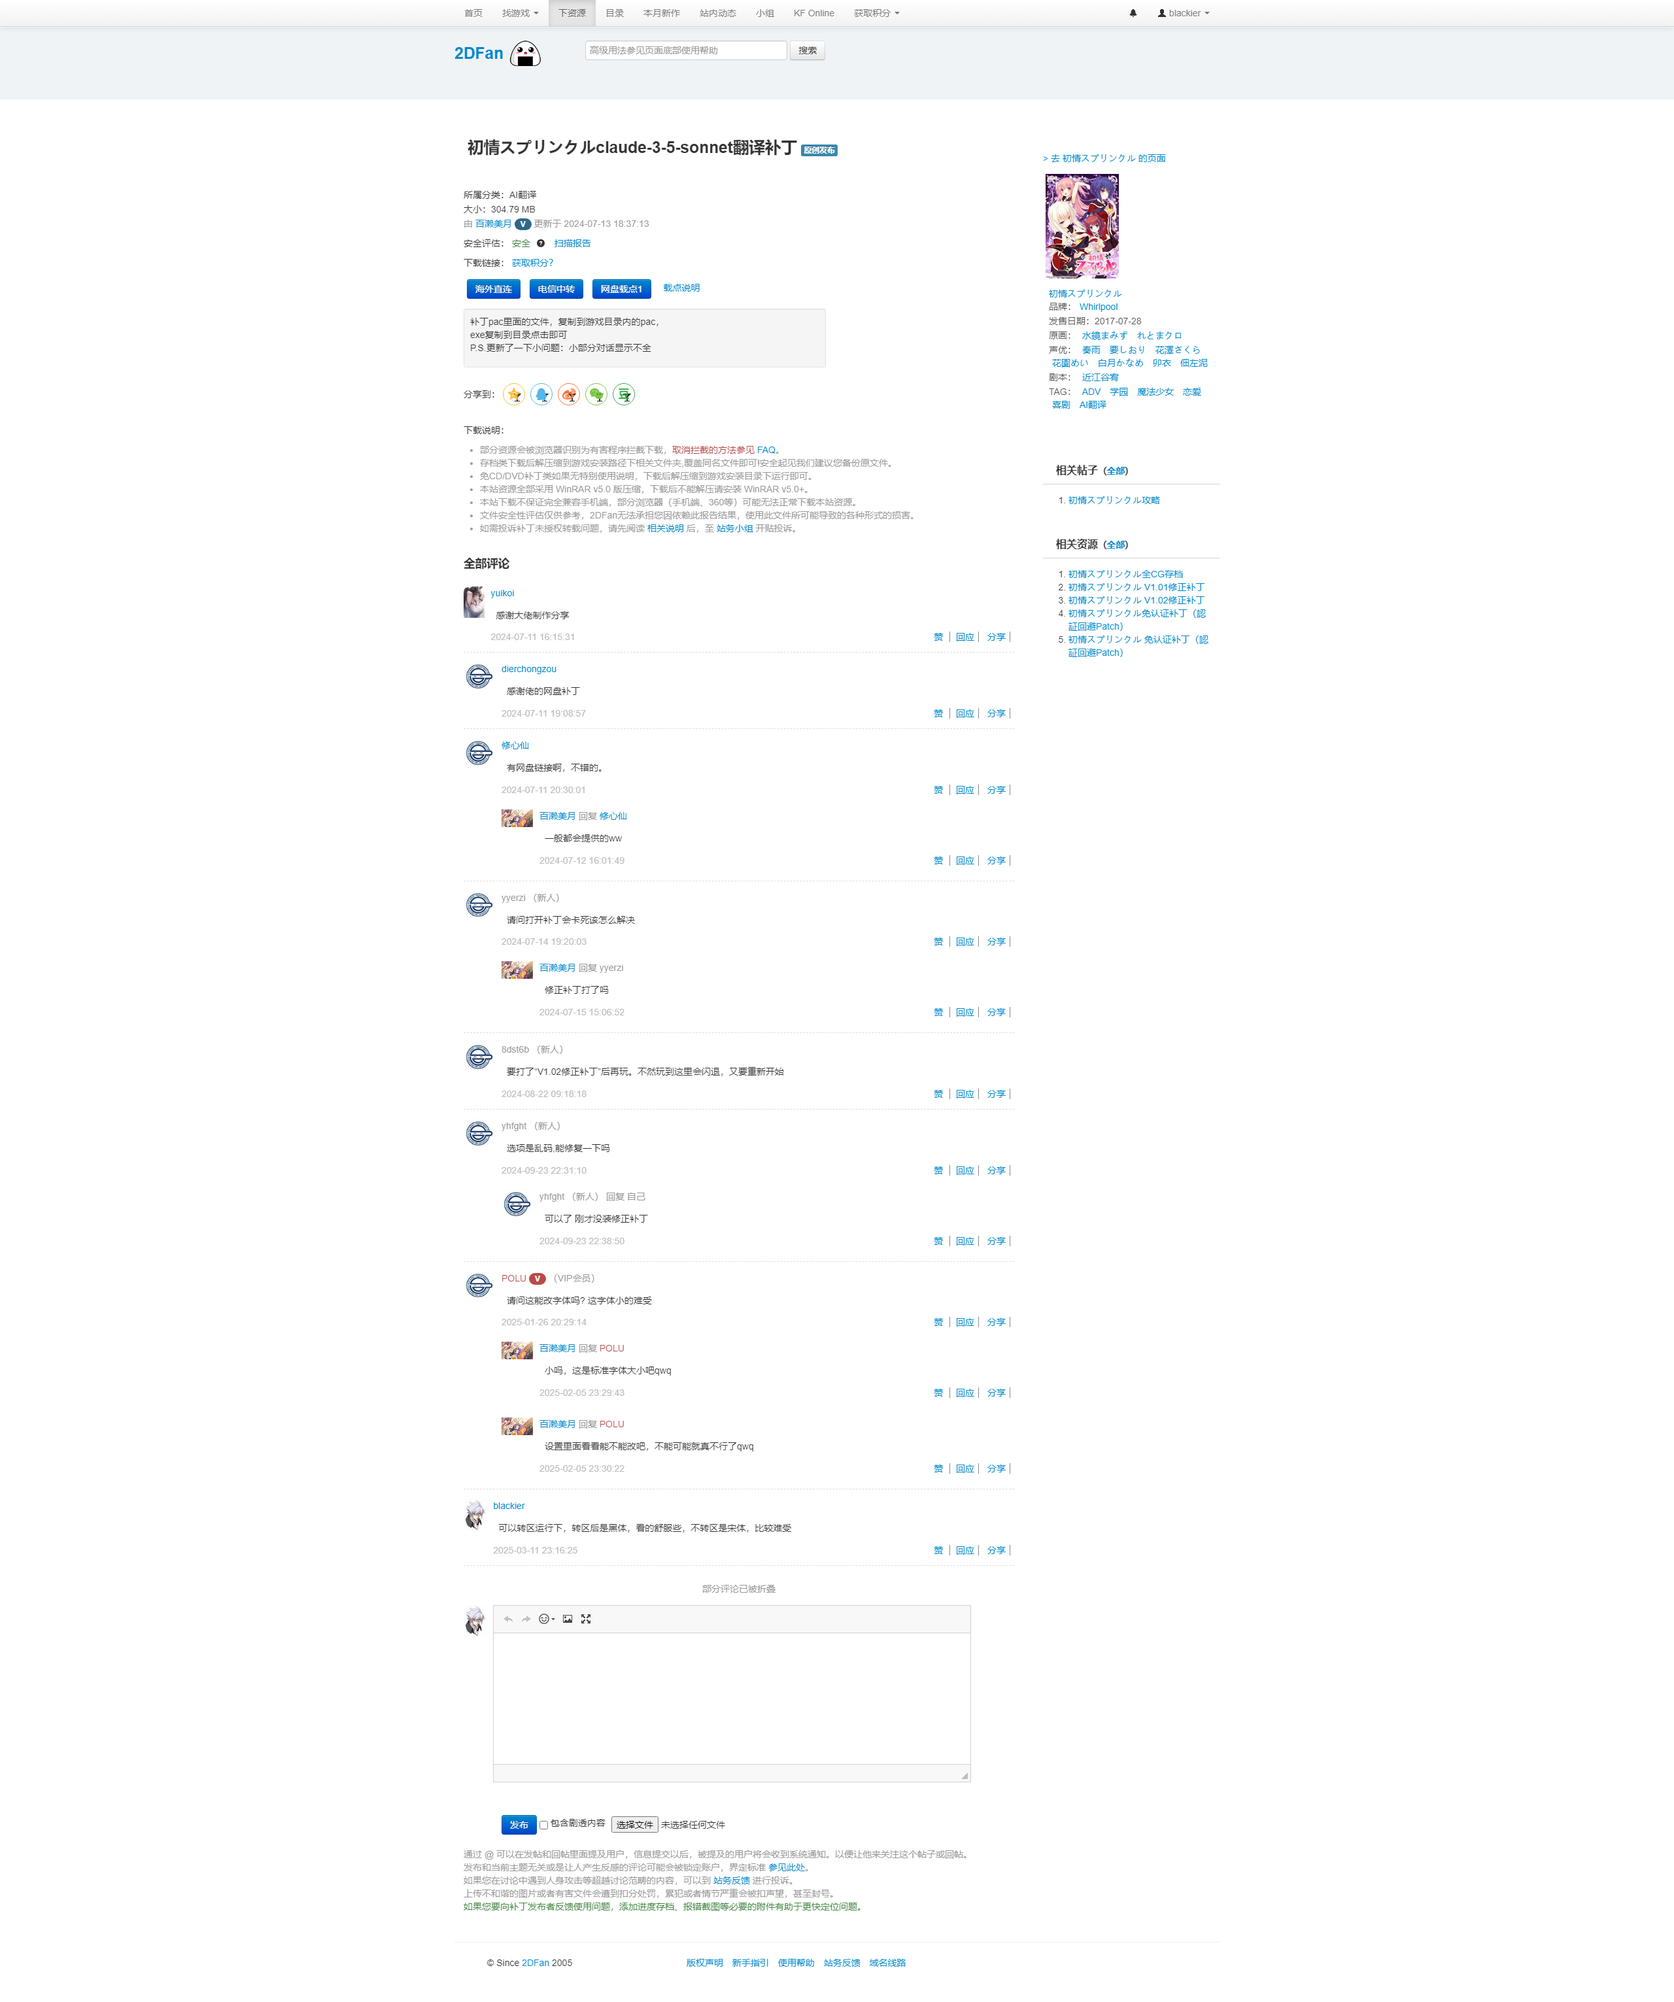
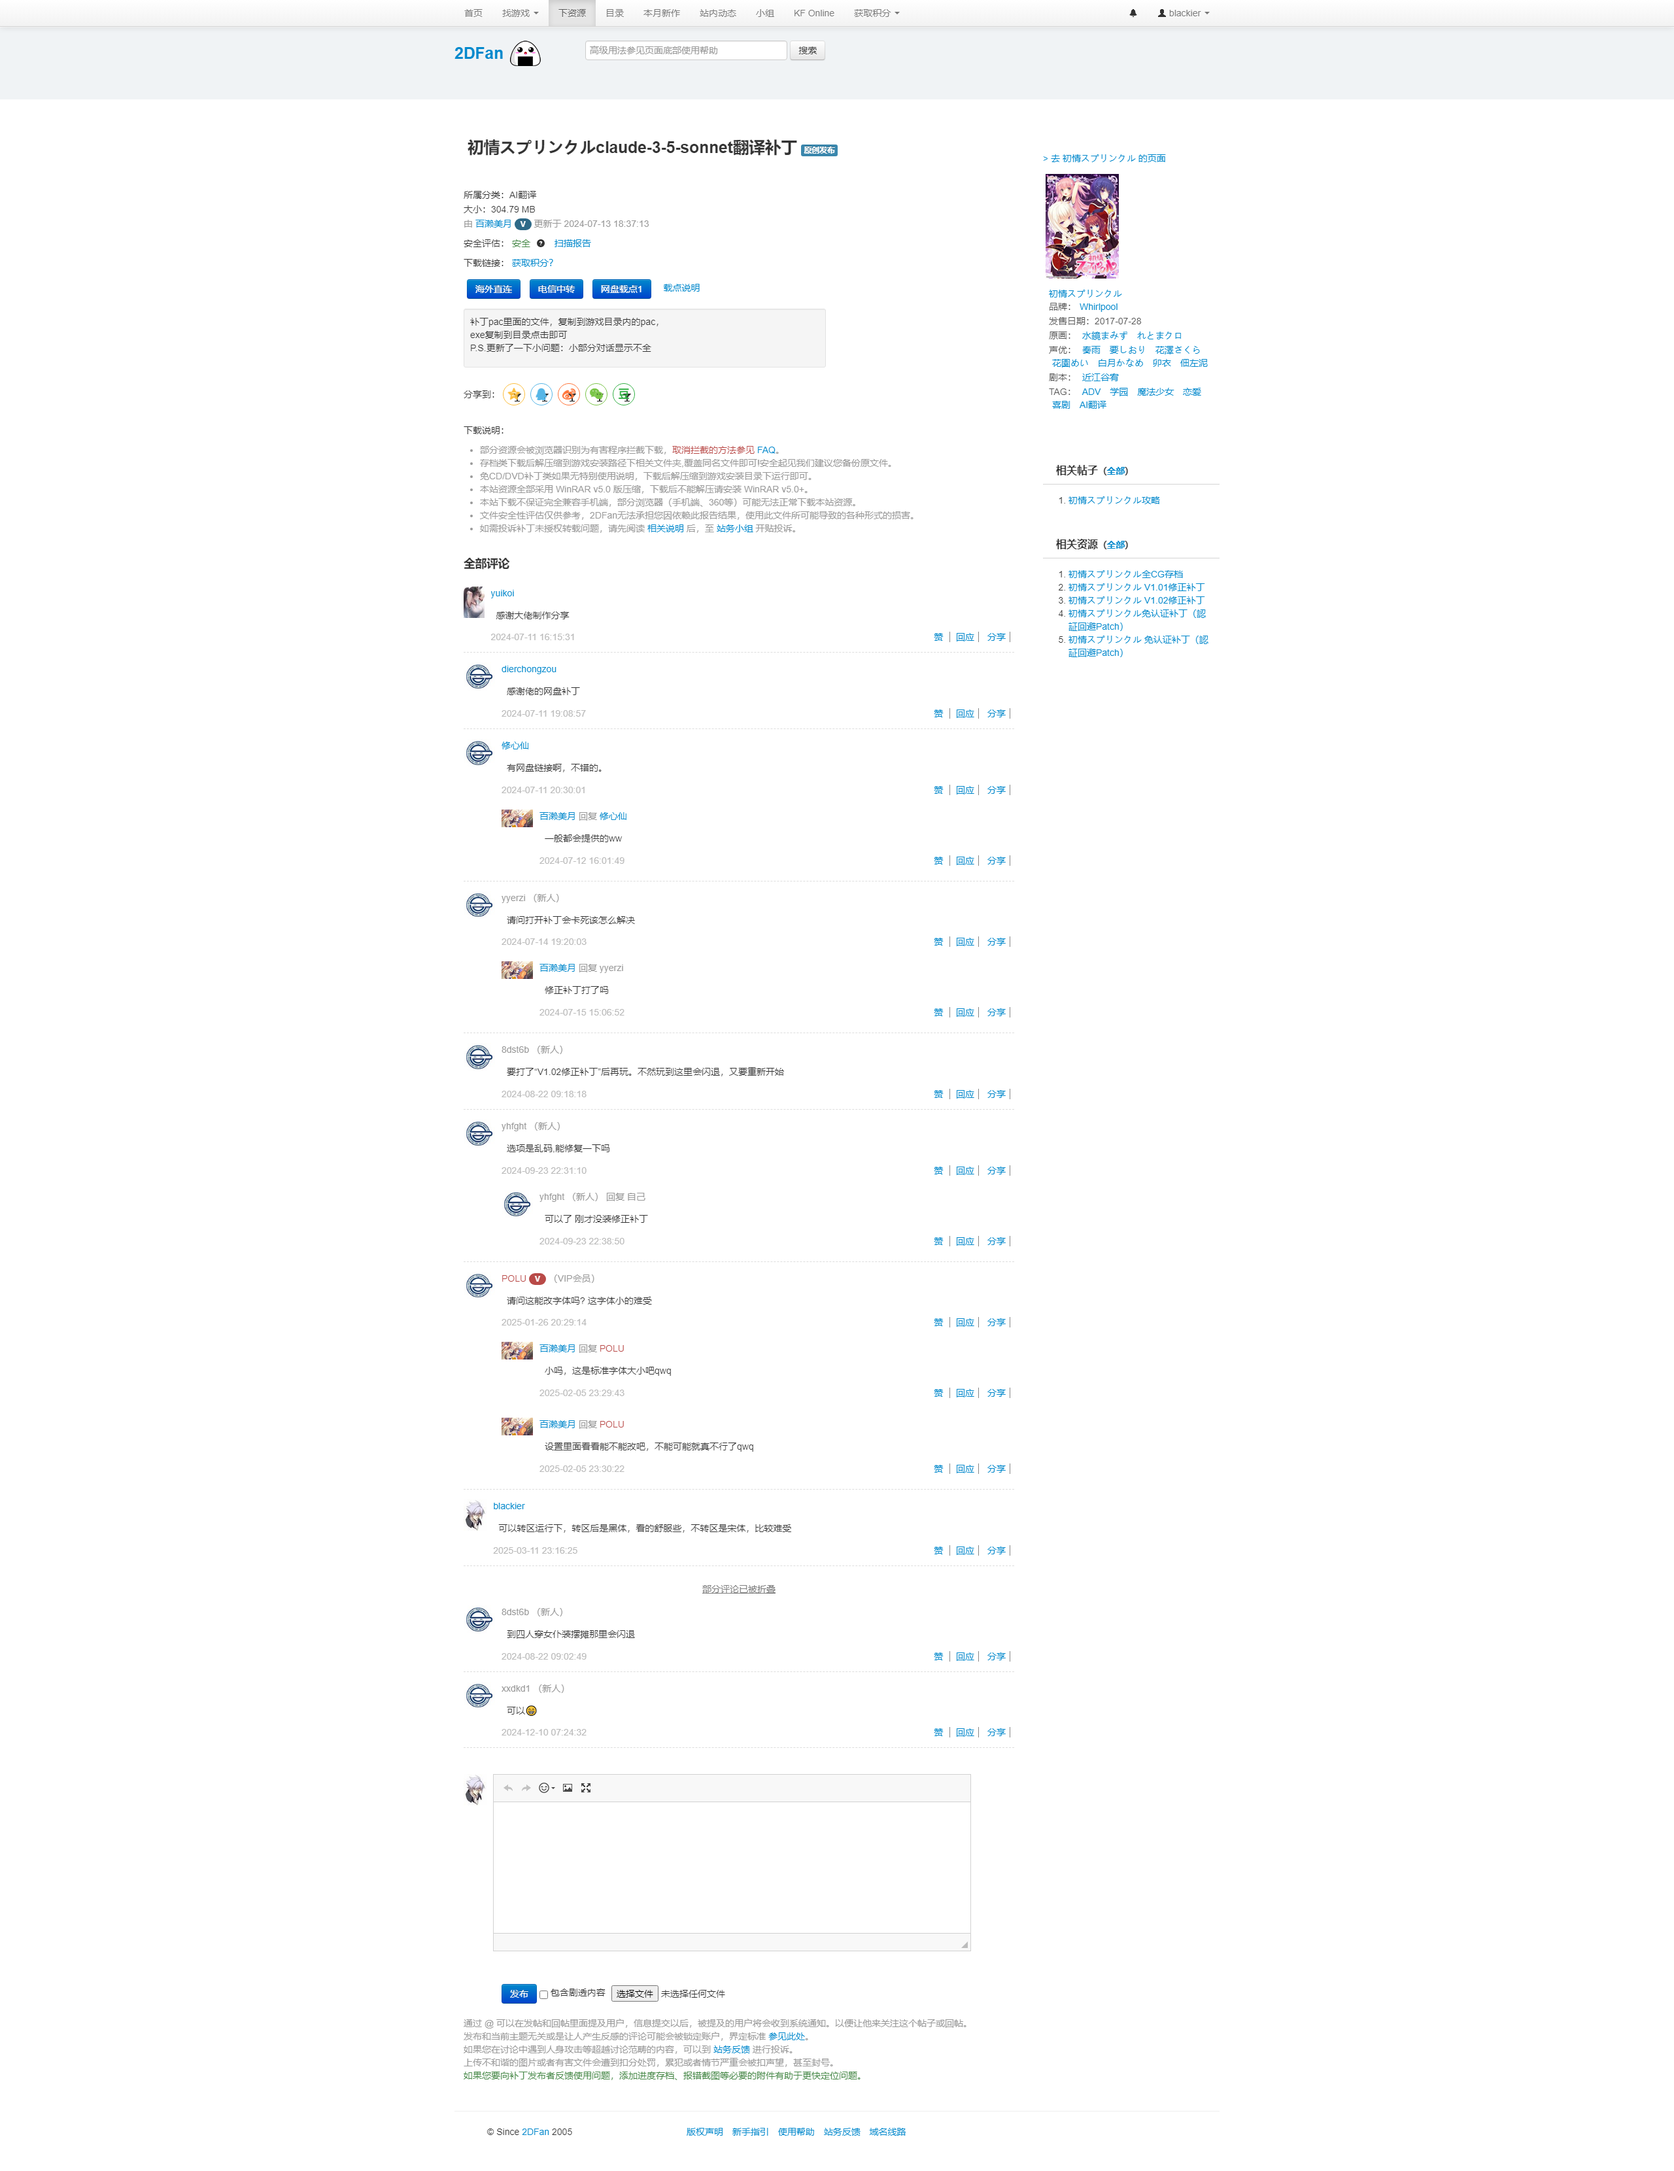
BKGalgame(初情スプリンクル): 更新翻译补丁的截图，之前的折叠评论没展开

diff --git a/src/bkgalgames/20250311231259-初情スプリンクル.md b/src/bkgalgames/20250311231259-初情スプリンクル.md
@@ -6,7 +6,7 @@ tags:
 categories:
   - Galgame
 date: 2025-03-11 23:12:59 +8
-updated: 2025-09-21 17:09:52 +8
+updated: 2025-09-22 11:56:34 +8
 keywords:
 description:
 top_img:
@@ -17,7 +17,8 @@ order: -20250311231259
 ![](初情スプリンクル/cover.jpg)
 
 > 更新日志：
-> 
+>
+> 2025年9月22日11:56:34，更新翻译补丁的截图，之前的折叠评论没展开。<br/>
 > 2025年9月21日17:09:52，整理完。<br/>
 > 这是我回老家后，开始整理库里的galgame后，发的第二十五篇博客，算是2dfan的第十八篇，25年的第十四篇。<br/>
 > 这作我没完全推完所有角色，另外两个，一个萝莉，一个短发，画的还算好看，但都是贫乳，都不戳我，所以我只推了两个。<br/>
